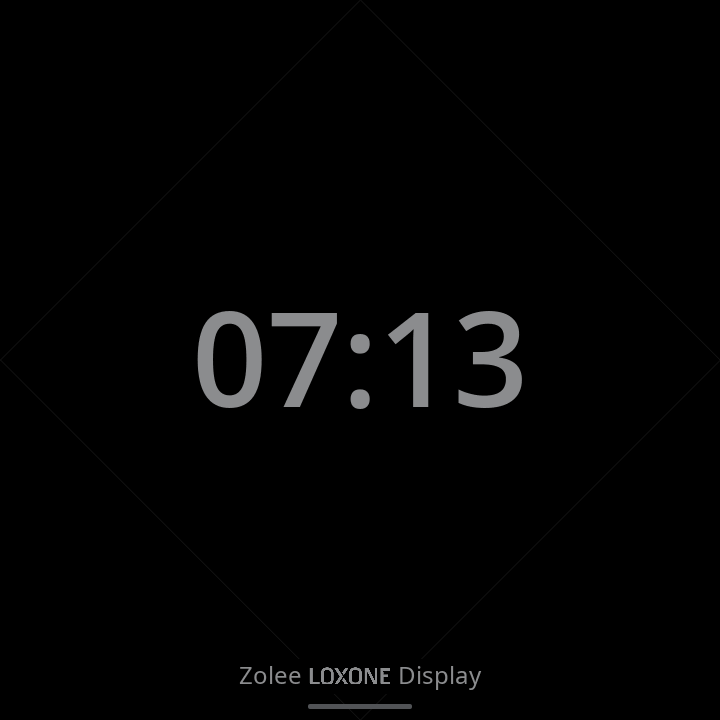
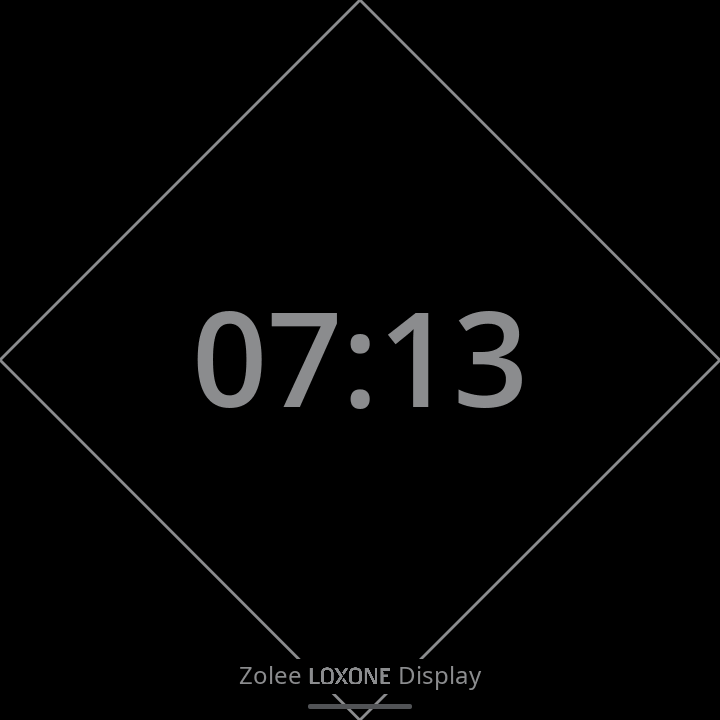
Verify Touch colors on screen and document day and night previews

diff --git a/simulator/render.c b/simulator/render.c
@@ -84,7 +84,7 @@ void assert_awake_tabs(void)
     }
 }
 
-static void check_saver_chrome(const lv_area_t *footer)
+static void check_saver_chrome(const lv_area_t *footer, uint32_t ink)
 {
     /* A Touch-feliratot a normál óra teljes sorainak képpontjaival vetjük össze.
      * A rombusz mindkét alsó éle metszené ezt a területet takarás nélkül. */
@@ -98,30 +98,37 @@ static void check_saver_chrome(const lv_area_t *footer)
     }
     for (int y = footer->y1; y <= footer->y2; ++y) {
         for (int x = footer->x1; x <= footer->x2; ++x) {
-            if (abs(abs(x - 360) + abs(y - 360) - 360) <= 3)
-                assert(reference[y - FOOTER_Y][x] == framebuffer[y * SIDE + x]);
+            if (abs(abs(x - 360) + abs(y - 360) - 360) > 5) continue;
+            /* A betűk színétől függetlenül fekete a korábbi üres hely, a teli tintát
+             * pedig az új árnyalat adja. Az élsimított betűpixelek köztes színűek. */
+            uint32_t previous = reference[y - FOOTER_Y][x] & 0xffffff;
+            uint32_t current = framebuffer[y * SIDE + x] & 0xffffff;
+            if (!previous) assert(!current);
+            if (previous == 0x8B8C8E) assert(current == ink);
         }
     }
-    /* Az egész felső sáv üres a két egypixeles, semleges rombuszélen kívül. */
+    /* A felső sávban kizárólag a rombusz két, élsimított éle világíthat. */
     for (int y = 0; y < 80; ++y) {
         unsigned visible = 0;
         for (int x = 0; x < SIDE; ++x) {
-            uint32_t pixel = framebuffer[y * SIDE + x] & 0xffffff;
-            if (!pixel) continue;
-            assert(abs(abs(x - 360) - y) <= 2);
-            assert((pixel & 255) <= 23 && pixel == (pixel & 255) * 0x010101);
+            if (!(framebuffer[y * SIDE + x] & 0xffffff)) continue;
+            assert(abs(abs(x - 360) - y) <= 4);
             ++visible;
         }
-        assert(visible > 0 && visible <= 8);
+        assert(visible > 0 && visible <= 16);
     }
-    /* A keret minden élét követjük két szemközti vízszintes metszetben. */
+    /* 45 foknál a három fizikai pixel széles vonásnak legalább két teljes
+     * tintapixele és egy simított széle van egy vízszintes metszetben. */
     const int sample_y[] = {180, 540};
     for (unsigned i = 0; i < sizeof(sample_y) / sizeof(*sample_y); ++i) {
         for (int x = 180; x <= 540; x += 360) {
-            uint32_t stroke = 0;
-            for (int dx = -1; dx <= 1; ++dx)
-                stroke |= framebuffer[sample_y[i] * SIDE + x + dx] & 0xffffff;
-            assert(stroke > 0 && stroke <= 0x1f1f1f);
+            unsigned solid = 0, visible = 0;
+            for (int dx = -6; dx <= 6; ++dx) {
+                uint32_t pixel = framebuffer[sample_y[i] * SIDE + x + dx] & 0xffffff;
+                if (pixel == ink) ++solid;
+                if (pixel) ++visible;
+            }
+            assert(solid >= 2 && visible >= 4 && visible <= 7);
         }
     }
     assert((framebuffer[705 * SIDE + 360] & 0xffffff) == 0x515356);
@@ -141,7 +148,9 @@ void assert_standby(const char *time_text, bool night)
     lv_obj_get_coords(footer, &area);
     assert(abs(area.x1 + area.x2 + 1 - SIDE) <= 2 && area.y1 >= 620 && area.y2 < SIDE - 10);
 
-    uint32_t expected = night ? 0xA04E4E : 0x8B8C8E;
+    uint32_t day_ink = fixture_touch && fixture_touch_day_ink
+                           ? strtoul(fixture_touch_day_ink + 1, NULL, 16) : 0x8B8C8E;
+    uint32_t expected = night ? 0xA04E4E : day_ink;
     unsigned solid_clock = 0;
     for (int y = 260; y < 460; y++) {
         for (int x = 0; x < SIDE; x++) {
@@ -150,26 +159,28 @@ void assert_standby(const char *time_text, bool night)
     }
     /* Az ismert 07:13 felirat vékony termosztátfonttal nem éri el ezt a területet. */
     assert(solid_clock > (!strcmp(time_text, "07:13") ? 8500u : 1000u));
-    /* Csak az órát színezzük. Az ikonsor a fekete háttéren közel szürke. */
-    for (int i = 0; i < 80 * SIDE; ++i) {
-        int red = (framebuffer[i] >> 16) & 255;
-        int blue = framebuffer[i] & 255;
-        assert(abs(red - blue) < 5);
+    if (!fixture_touch) {
+        for (int i = 0; i < 80 * SIDE; ++i) {
+            int red = (framebuffer[i] >> 16) & 255;
+            int blue = framebuffer[i] & 255;
+            assert(abs(red - blue) < 5);
+        }
     }
-
-    check_saver_chrome(&area);
+    check_saver_chrome(&area, expected);
 
     /* A valódi PNG az átfestés után a két felirattal azonos tintaárnyalatot ad. */
     lv_color_t ink = lv_obj_get_style_text_color(lv_obj_get_child(footer, 0), 0);
     assert(lv_color_eq(ink, lv_obj_get_style_text_color(lv_obj_get_child(footer, 2), 0)));
     uint32_t color = lv_color_to_u32(ink) & 0xffffff;
-    assert(color == 0x8B8C8E);
-    lv_obj_get_coords(mark, &area);
-    unsigned solid = 0;
-    for (int y = area.y1; y <= area.y2; y++)
-        for (int x = area.x1; x <= area.x2; x++)
-            if ((framebuffer[y * SIDE + x] & 0xffffff) == color) solid++;
-    assert(solid > 150);
+    assert(color == (fixture_touch ? expected : 0x8B8C8E));
+    for (int i = 0; i < 3; ++i) {
+        lv_obj_get_coords(lv_obj_get_child(footer, i), &area);
+        unsigned solid = 0;
+        for (int y = area.y1; y <= area.y2; y++)
+            for (int x = area.x1; x <= area.x2; x++)
+                if ((framebuffer[y * SIDE + x] & 0xffffff) == color) solid++;
+        assert(solid > 150);
+    }
 }
 
 void snapshot(const char *name)

diff --git a/simulator/test_touch.c b/simulator/test_touch.c
@@ -246,14 +246,25 @@ void test_touch_saver(void)
     idle();
     snapshot("standby-touch");
     assert_standby("07:13", false);
+    fixture_touch_day_ink = "#A6B8C9";
+    fixture_generation++;
+    step(800);
+    assert_standby("07:13", false);
+    snapshot("standby-touch-custom");
     fixture_time += 15 * 3600;
     fixture_night_value = true;
     step(800);
     assert_standby("22:13", true);
     snapshot("standby-touch-night");
+    fixture_touch_day_ink = "#7CCB9A";
+    fixture_generation++;
+    step(800);
+    assert_standby("22:13", true); /* A nappali árnyalat mentése éjszaka is zárolva és vörösen hagyja a panelt. */
     fixture_time -= 15 * 3600;
     fixture_night_value = false;
     step(800);
+
+    assert_standby("07:13", false);
 
     zones_and_edges();
     groups(150);
@@ -281,6 +292,12 @@ void test_touch_saver(void)
     fixture_touch = false; /* A mentett, kikapcsolt beállítás hagyományos ébresztést ad. */
     fixture_generation++;
     idle();
+    assert_standby("07:13", false);
+    fixture_night_value = true;
+    step(800);
+    assert_standby("07:13", true);
+    fixture_night_value = false;
+    step(800);
     contact(100, 130);
     step(fixture_tap_window + 60);
     quiet();

diff --git a/simulator/fixture.c b/simulator/fixture.c
@@ -19,6 +19,7 @@ bool fixture_matched = true;
 const char *fixture_profile, *fixture_sd;
 bool fixture_touch, fixture_doorbell;
 unsigned fixture_tap_window = 400;
+const char *fixture_touch_day_ink;
 uint32_t fixture_session = 1;
 fixture_touch_event_t fixture_touch_trace[48];
 unsigned fixture_touch_count, fixture_touch_cancels;
@@ -100,8 +101,10 @@ cJSON *panel_config_snapshot(void)
     fclose(file);
     input[n] = 0;
     cJSON *profile = cJSON_Parse(input);
+    cJSON *touch = cJSON_GetObjectItemCaseSensitive(profile, "touch");
+    if (fixture_touch_day_ink)
+        cJSON_AddStringToObject(touch, "dayTextColor", fixture_touch_day_ink);
     if (fixture_touch) {
-        cJSON *touch = cJSON_GetObjectItemCaseSensitive(profile, "touch");
         cJSON_SetBoolValue(cJSON_GetObjectItemCaseSensitive(touch, "enabled"), true);
         cJSON_SetNumberValue(cJSON_GetObjectItemCaseSensitive(touch, "tapWindowMs"), fixture_tap_window);
     } else if (!fixture_has_touch_section) {

diff --git a/simulator/fixture.h b/simulator/fixture.h
@@ -12,6 +12,7 @@ extern bool fixture_use_night_value, fixture_night_value, fixture_night_valid;
 
 extern bool fixture_touch, fixture_doorbell;
 extern unsigned fixture_tap_window;
+extern const char *fixture_touch_day_ink;
 extern uint32_t fixture_session;
 typedef struct {
     unsigned zone, taps;

diff --git a/docs/screens.md b/docs/screens.md
@@ -36,17 +36,19 @@ A pénzügyi becslés az elődprojekt induló díjaival, **65 Ft/kWh vételi ár
 | --- | --- |
 | ![Szürke óra nappal, 07:13-kor](images/panel/standby.png) | ![Tompított piros óra éjjel, 22:13-kor](images/panel/standby-night.png) |
 
-A nappali és az éjszakai fényerő külön állítható. Az éjszakai mód kezdő és befejező időponttal vagy Miniserver-értékkel vezérelhető. Az időzítő a budapesti helyi időt és az óraátállást követi. A **képernyőkímélő** ettől független. A megadott tétlenségi idő után lekapcsolja a vezérlőket, éjszakai fényerőt választ és nagy, félkövér órát jelenít meg. Az óra nappal szürke. Az éjszakai időablakban vagy aktív Miniserver-jelnél tompított pirosra vált. Az átmenet a már látható órán is követhető. Ha a választott időzítő még nem kapott pontos időt, vagy a Miniserver-jel megszakadt, az óra szürke. A normál képernyőkímélőn a felső ikonsor és az alsó „Zolee LOXONE Display” felirat nappal és éjjel is halványszürke.
+A nappali és az éjszakai fényerő külön állítható. Az éjszakai mód kezdő és befejező időponttal vagy Miniserver-értékkel vezérelhető. Az időzítő a budapesti helyi időt és az óraátállást követi. A **képernyőkímélő** ettől független. A megadott tétlenségi idő után lekapcsolja a vezérlőket, éjszakai fényerőt választ és nagy, félkövér órát jelenít meg. A normál képernyőkímélő órája nappal szürke. Az éjszakai időablakban vagy aktív Miniserver-jelnél tompított pirosra vált. Az átmenet a már látható órán is követhető. Ha a panel még a pontos időre vár, vagy megszakadt a kapcsolat a kiválasztott Miniserver-jellel, a képernyőkímélő a nappali színét használja. A normál képernyőkímélőn a felső ikonsor és az alsó „Zolee LOXONE Display” felirat nappal és éjjel is halványszürke.
 
 Alapbeállítással az első érintés visszahozza az előző lapot. Nulla másodperc kikapcsolja az automatikus képernyőkímélőt. A bejövő kapucsengés felébreszti a kijelzőt.
 
 ## Öt érintőmező az óraképernyőn
 
-| Nappali Touch | Éjszakai Touch |
-| --- | --- |
-| ![Öt érintőmező, szürke óra és az alsó feloldó vonal](images/panel/standby-touch.png) | ![Öt érintőmező vörös órával éjszakai módban](images/panel/standby-touch-night.png) |
+| Nappali alapbeállítás | Nappal választott kékesszürke | Éjszakai Touch |
+| --- | --- | --- |
+| ![Szürke óra, rombusz és felirat](images/panel/standby-touch.png) | ![A webes színválasztóban beállított kékesszürke óra, rombusz és felirat](images/panel/standby-touch-custom.png) | ![Tompa vörös óra, rombusz és felirat éjszaka](images/panel/standby-touch-night.png) |
 
-Bekapcsolt **Használat Touch-ként** beállításnál az óra látható marad, miközben a négy sarokkal a hozzájuk rendelt eszközöket vezérled. Egy sarok rövid koppintásra működik. A kijelző négy oldalának felezőpontját összekötő, nagyon halvány szürke rombusz belseje egyetlen világításgomb. A négy sarokban egy-egy háromszög marad. Touch módban a felső ikonsor eltűnik. Az alsó felirat az osztóvonal elé kerül, így a vonal nem metszi a betűket vagy a LOXONE logót. Dupla vagy tripla koppintáshoz egymás után érintsd meg ezt a területet. Két érintés között alapból legfeljebb 0,4 másodperc telhet el.
+**Használat Touch-ként** módban az egyes sarkokra koppintva a hozzájuk rendelt műveletet indíthatod el. A kijelző négy oldalának felezőpontját összekötő rombusz belseje egyetlen világításgomb. Dupla vagy tripla koppintáshoz egymás után érintsd meg a rombusz belsejét. Két érintés között alapból legfeljebb 0,4 másodperc telhet el.
+
+A rombusz vonala három képpont széles. Az óra, az osztóvonal és az alsó „Zolee LOXONE Display” felirat nappal a **Nappali szövegszín** beállítását követi. Az alapértelmezett szürke `#8B8C8E`. Aktív éjszakai módban mindhárom tompa vörösre (`#A04E4E`) vált. A felső ikonsor Touch módban rejtett, alul pedig a felirat és a logó kitakarja a mögöttük futó vonalat.
 
 A feloldáshoz az alsó vonaltól húzd az ujjadat felfelé, majd emeld fel. Ezzel az előzőleg megnyitott lapra térsz vissza. A feloldás akkor is használható, ha épp megszakadt a kapcsolat a Miniserverrel. A bejövő kapucsengés mindkét képernyőkímélőből megnyitja a kaputelefont. [Gombok hozzárendelése](web-config.md#használat-touch-ként)
 

diff --git a/simulator/README.md b/simulator/README.md
@@ -14,4 +14,10 @@ mkdir -p /tmp/zld-images
 
 Az előnézetek 720 × 720-as PPM-fájlok. A program ellenőrzi a Wi-Fi jelszómezőt, a webes IP-címet, a termosztátparancsokat, a jelenetválasztást, az RGBW-ablakot, az energiafül húzását, a képernyőkímélő fényerejét és az első érintés kizárólagos ébresztését. A készenléti órán a teszt képpontokból ellenőrzi a színt az időablak váltásakor, a Miniserver-jel megváltozásakor és jelkimaradáskor. Külön ellenőrzi az alsó feliratot és a felső ikonsort. A napi összesítő számítását és SD-visszaállítását a `tests/daily/run.sh` külön teszteli.
 
-A Touch módhoz a program a valódi LVGL-érintési eseményeket adja a firmware-nek. A szimulált Miniserver-határfelület rögzíti az átadott zónát, a koppintások számát, a munkamenetet és az időt. A teszt a határvonalak egymás melletti képpontjait, a 150, 400 és 1000 ms-os időablakot, a nyomva tartást és az alsó sávról indított húzást is ellenőrzi. Profilváltás, hívás, kapcsolatvesztés és feloldás közben a félbehagyott koppintásokat külön vizsgálja. A futás a nappali `standby-touch.ppm` és az éjszakai `standby-touch-night.ppm` képet is kimenti.
+A Touch módhoz a program a valódi LVGL-érintési eseményeket adja a firmware-nek. A szimulált Miniserver-határfelület rögzíti az átadott zónát, a koppintások számát, a munkamenetet és az időt. A teszt a határvonalak egymás melletti képpontjait, a 150, 400 és 1000 ms-os időablakot, a nyomva tartást és az alsó sávról indított húzást is ellenőrzi. Profilváltás, hívás, kapcsolatvesztés és feloldás közben a félbehagyott koppintásokat külön vizsgálja. A képpontpróba összeveti az óra, a felirat, a szólogó és a rombusz mind a négy élének színét. Zárolás közben nappal és éjszaka is módosítja a nappali színt, majd ellenőrzi a következő napszakváltást és a három képpont széles osztóvonal takarását a felirat mögött.
+
+| Mentett előnézet | Nézet |
+|---|---|
+| `standby-touch.ppm` | Alapértelmezett nappali szürke |
+| `standby-touch-custom.ppm` | Egyedi nappali kékesszürke |
+| `standby-touch-night.ppm` | Éjszakai tompa vörös |

diff --git a/README.md b/README.md
@@ -38,7 +38,7 @@ A három előnézetet a firmware saját LVGL-felülete rajzolta mintaadatokkal. 
 
 **Éjszakai használat.** Az éjszakai fényerőt Miniserver-jel vagy helyi időzítés kapcsolja. Ettől függetlenül beállítható az inaktivitási idő. Ha letelik, a halvány fülsor alatt nagy, félkövér óra jelenik meg. A számjegyek nappal szürkék, aktív éjszakai módban tompa vörösek. Legalul az egyszínű „Zolee LOXONE Display” felirat látható a Loxone emblémájával. Alapbeállítással az első érintés felébreszti a panelt. Az időkorlát üresen hagyva vagy nullára állítva kikapcsolja az automatikus képernyőkímélőt.
 
-**Használat Touch-ként.** Az óra képernyőjén a négy sarokhoz külön műveletet rendelhetsz. A felső ikonsor ilyenkor eltűnik. A halvány rombusszal határolt középső gomb a szoba világítását vezérli egy, két vagy három koppintással. A koppintások közötti idő alapból 0,4 másodperc. A lapokhoz az alsó vonaltól felfelé húzva térhetsz vissza. A kijelző minden ujjletételt rövid, halk kattanással jelez, már a Wi-Fi-beállításnál is. [Az öt érintőmező beállítása](docs/web-config.md#használat-touch-ként)
+**Használat Touch-ként.** Az óra képernyőjén a négy sarokhoz külön műveletet rendelhetsz. A felső ikonsor ilyenkor eltűnik. A rombusz belsejében egy, két vagy három koppintással vezérelheted a szoba világítását. Az órának, a rombusz vonalának és az alsó feliratnak közös színe van. Nappal a webes színválasztóval beállított árnyalatot használják, éjjel tompa vörösre váltanak. A koppintások közötti idő alapból 0,4 másodperc. A lapokhoz az alsó vonaltól felfelé húzva térhetsz vissza. A kijelző minden ujjletételt rövid, halk kattanással jelez, már a Wi-Fi-beállításnál is. [Az öt érintőmező beállítása](docs/web-config.md#használat-touch-ként)
 
 ![A webes háttérválasztó mintabeállítással](docs/images/admin-background-picker.jpg)
 

diff --git a/docs/fejlesztesi-terv.md b/docs/fejlesztesi-terv.md
@@ -20,6 +20,7 @@ A kiinduló állapot a [ZoleeEnergyFlowDisplay 6786e84 kiadási fája](https://g
 | --- | --- |
 | Beállítások és korábbi profilok betöltése | Az új funkció kezdetben kikapcsolt. Mentés és újraindítás után megmarad mind az öt hozzárendelés és a középső koppintások időablaka. |
 | Kezelés az óraképernyőn | A négy sarok és a középső mező elkülönül. Az alsó vonaltól felfelé húzva az előző lap nyílik meg. Egy elrontott húzás sem vezérelhet világítást. |
+| Touch színei | A színválasztó értéke mentés és újraindítás után is megmarad. Nappal az óra, a három képpont széles osztóvonal és az alsó felirat azonos színű. Aktív éjszakai módban mindhárom a rögzített tompa vörössel jelenik meg. Az alsó felirat kitakarja a mögötte futó vonalat. |
 | Miniserver-parancsok | Egy, két és három koppintást is ki kell próbálni. A világítási kép az adott blokk listájából választható. Kapcsolatvesztés vagy profilmódosítás után egy korábbi érintés sem hajtható végre. |
 | Rövid hangvisszajelzés | Már a Wi-Fi-billentyűzeten, majd egy normál lapon és a képernyőkímélőn is minden ujjletétel egy halk kattanást ad. Húzás és nyomva tartás közben nem ismétlődik. A hangot csengetés és aktív beszélgetés alatt is ellenőrizni kell. |
 | Átadás | A nappali és éjszakai Touch-előnézet a firmware szimulátorából készül. Mindkét cikkszám mindkét szilíciumprofilja forduljon, az élő 2C/3C kimeneteket és a kattanás hangerejét fizikai panellel is ellenőrizni kell. |
